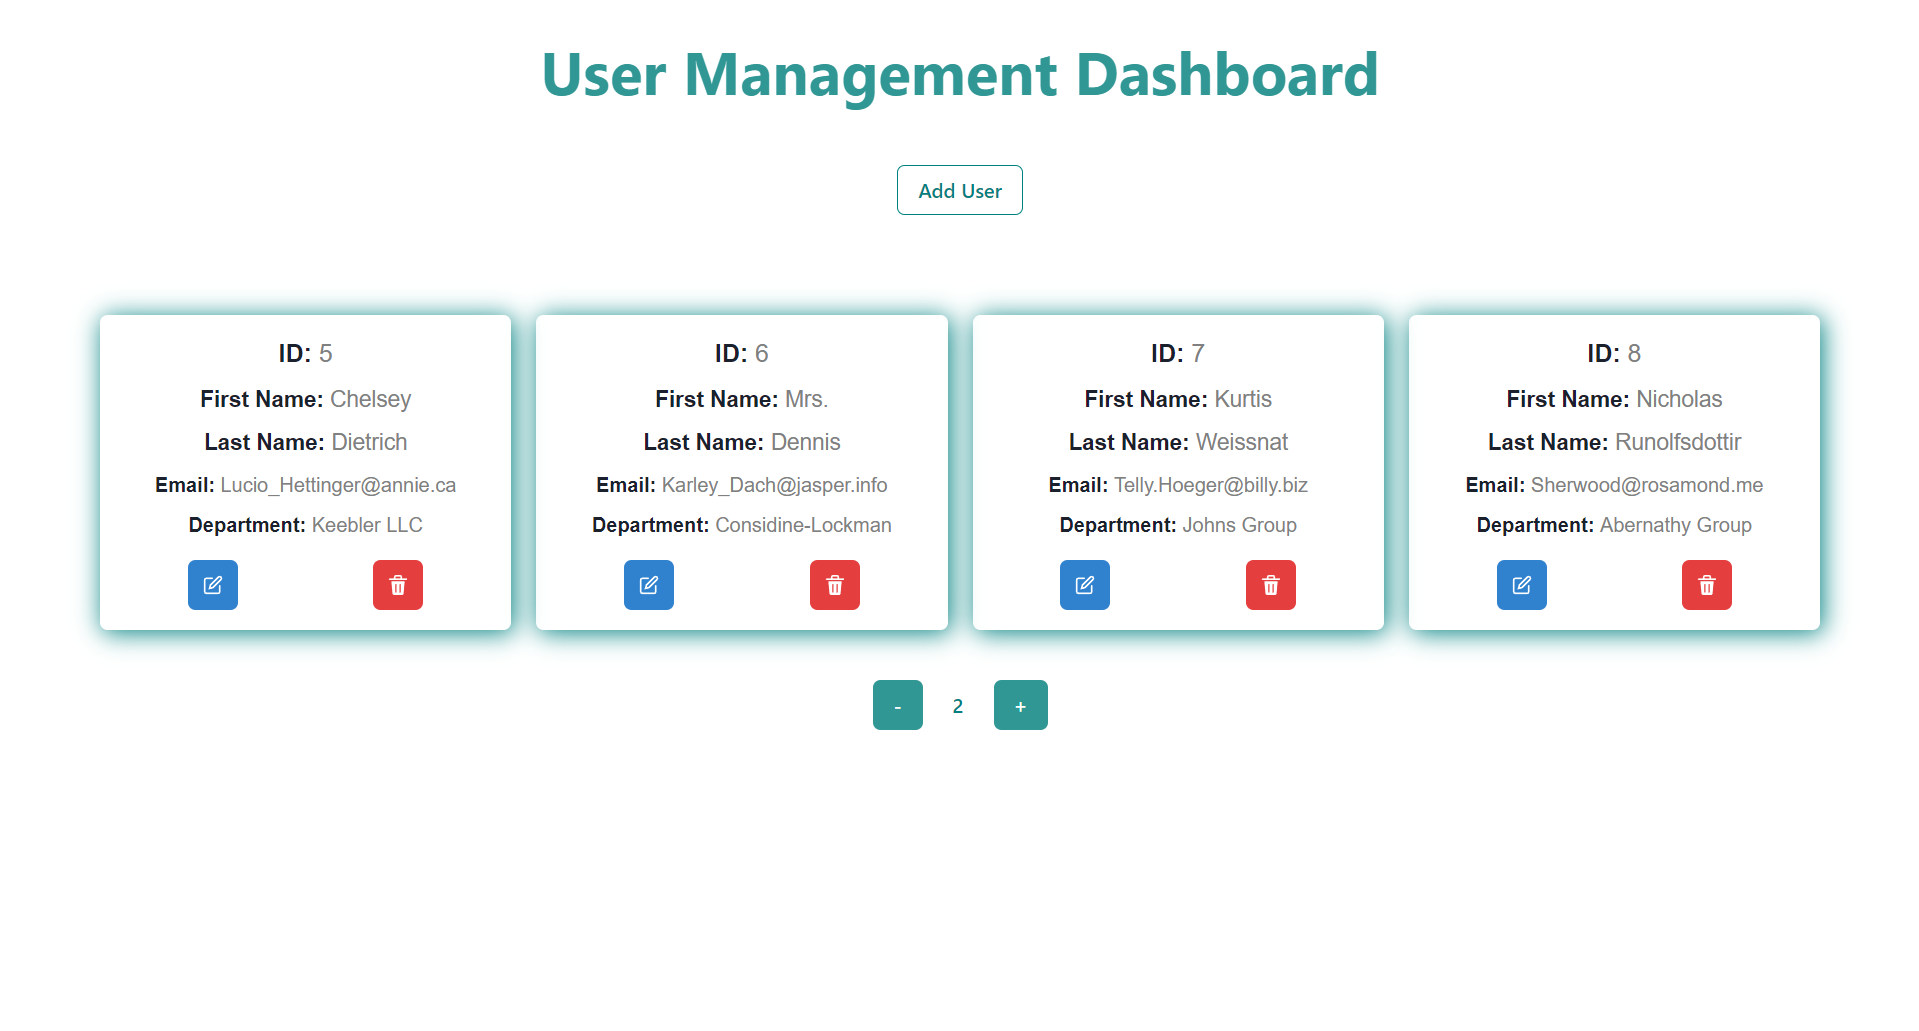
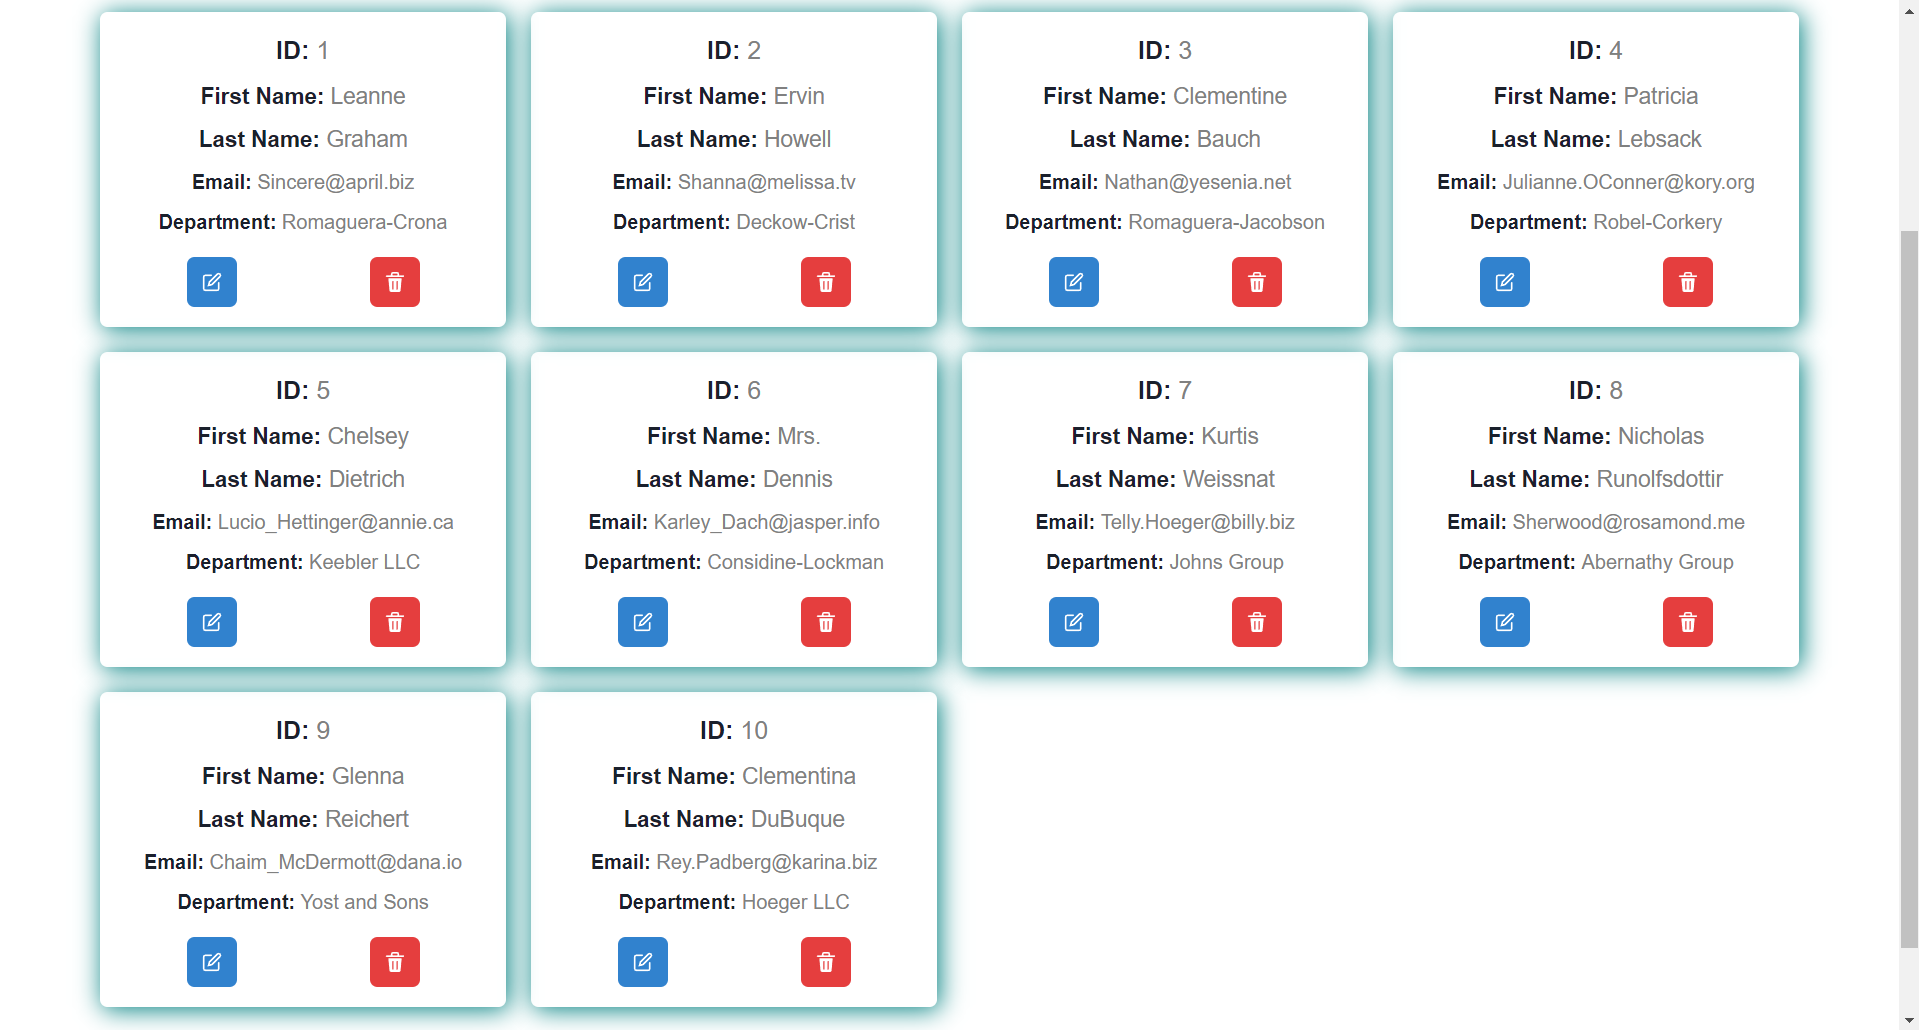
readme updated

Changed region(s): [[0.0307, 0.0, 1.0, 1.0]]

diff --git a/user/src/components/UserList.jsx b/user/src/components/UserList.jsx
@@ -145,14 +145,6 @@ const UserList = () => {
         };
     }, [totalPages]);
 
-    const handleNextPage = () => {
-        setCurrentPage((prevPage) => Math.min(prevPage + 1, totalPages));
-    };
-
-    const handlePrevPage = () => {
-        setCurrentPage((prevPage) => Math.max(prevPage - 1, 1));
-    };
-
     if (loading) return <Spinner />;
 
     return (
@@ -171,9 +163,7 @@ const UserList = () => {
                 )}
             </Grid>
             <Flex justify="center"mt={-10} mb={5}>
-                <Button onClick={handlePrevPage} disabled={currentPage === 1} mr={2}>Previous</Button>
-                <Text fontWeight="600" mx={4} pt={2}>{currentPage} / {totalPages}</Text>
-                <Button onClick={handleNextPage} disabled={currentPage === totalPages} ml={2}>Next</Button>
+                <Text fontWeight="600" mx={4} pt={2} color={'teal'}>{currentPage} / {totalPages}</Text>
             </Flex>
             {isModalOpen && (
                 <UserModal
